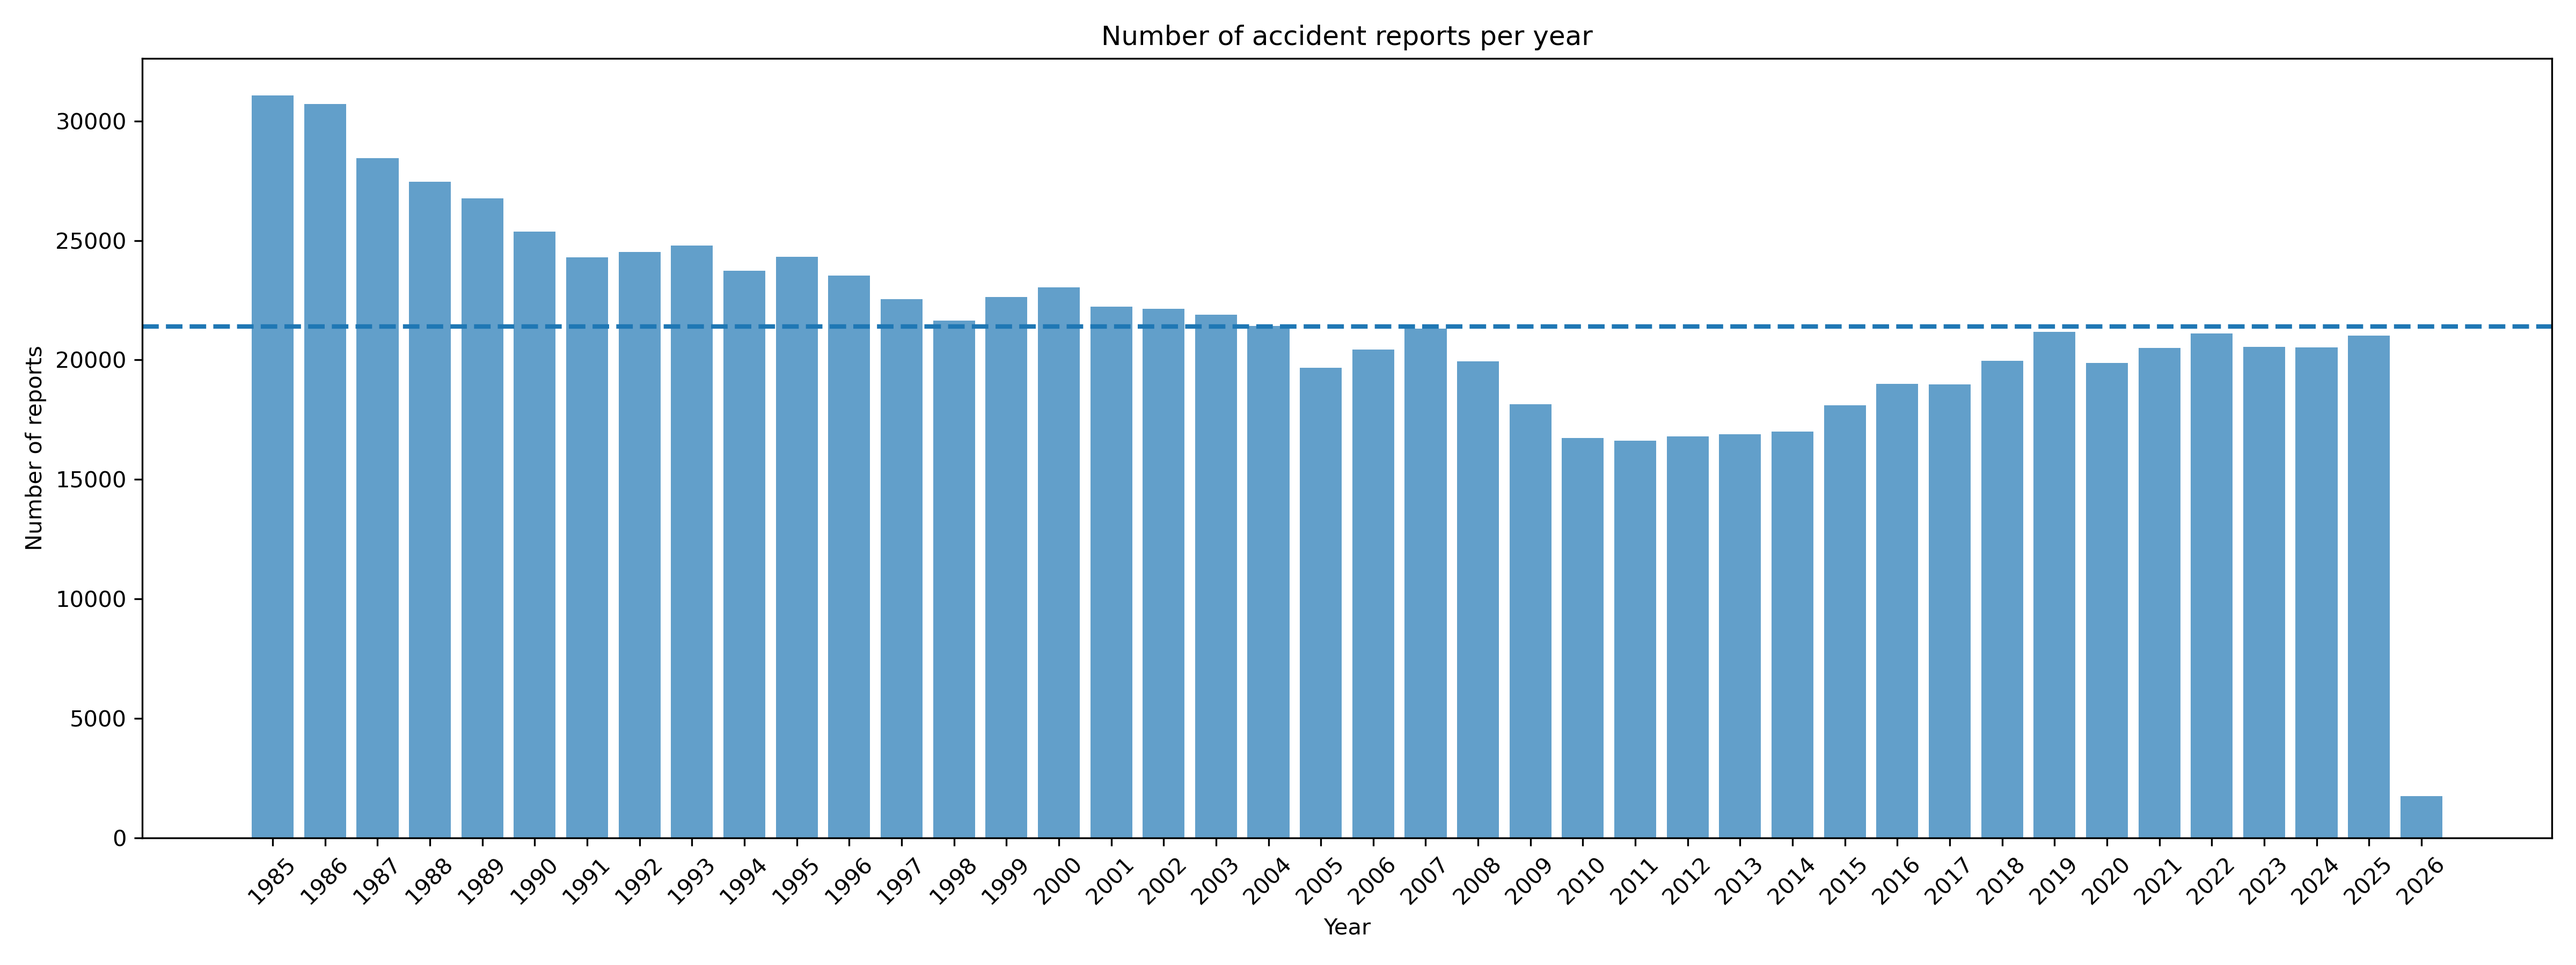
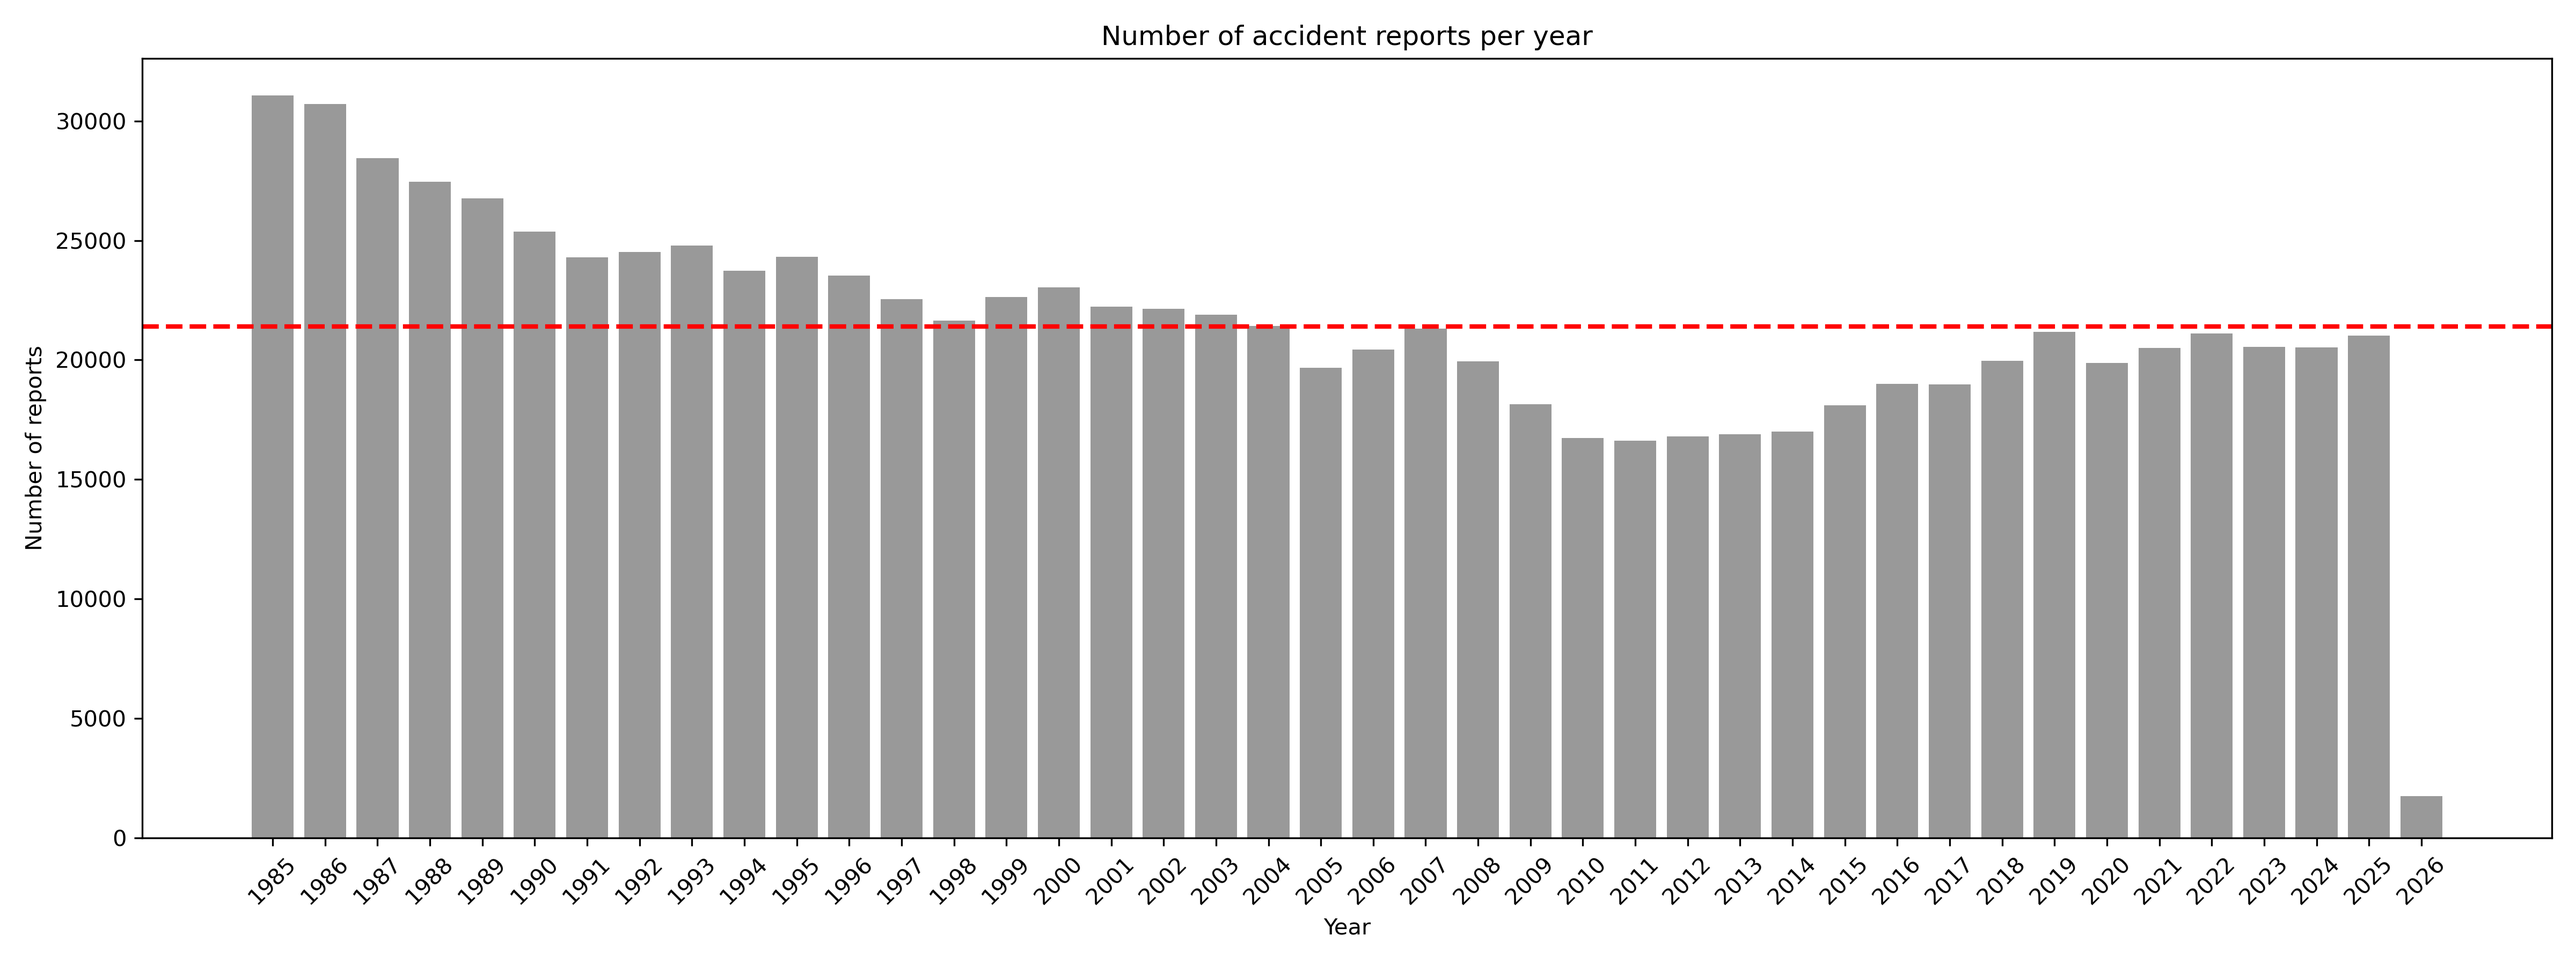
changed color on plot

diff --git a/data/data_analysis.py b/data/data_analysis.py
@@ -91,8 +91,8 @@ print(f"Standard deviation (reports per year): {std_reports:.2f}")
 # Plot
 plt.figure(figsize=(16, 6))
 
-plt.bar(years, n_reports, alpha=0.7)
-plt.axhline(mean_reports, linestyle="--", linewidth=2)
+plt.bar(years, n_reports, color="gray", alpha=0.8)
+plt.axhline(mean_reports, color="red", linestyle="--", linewidth=2)
 
 plt.xticks(years, rotation=45)
 plt.xlabel("Year")
